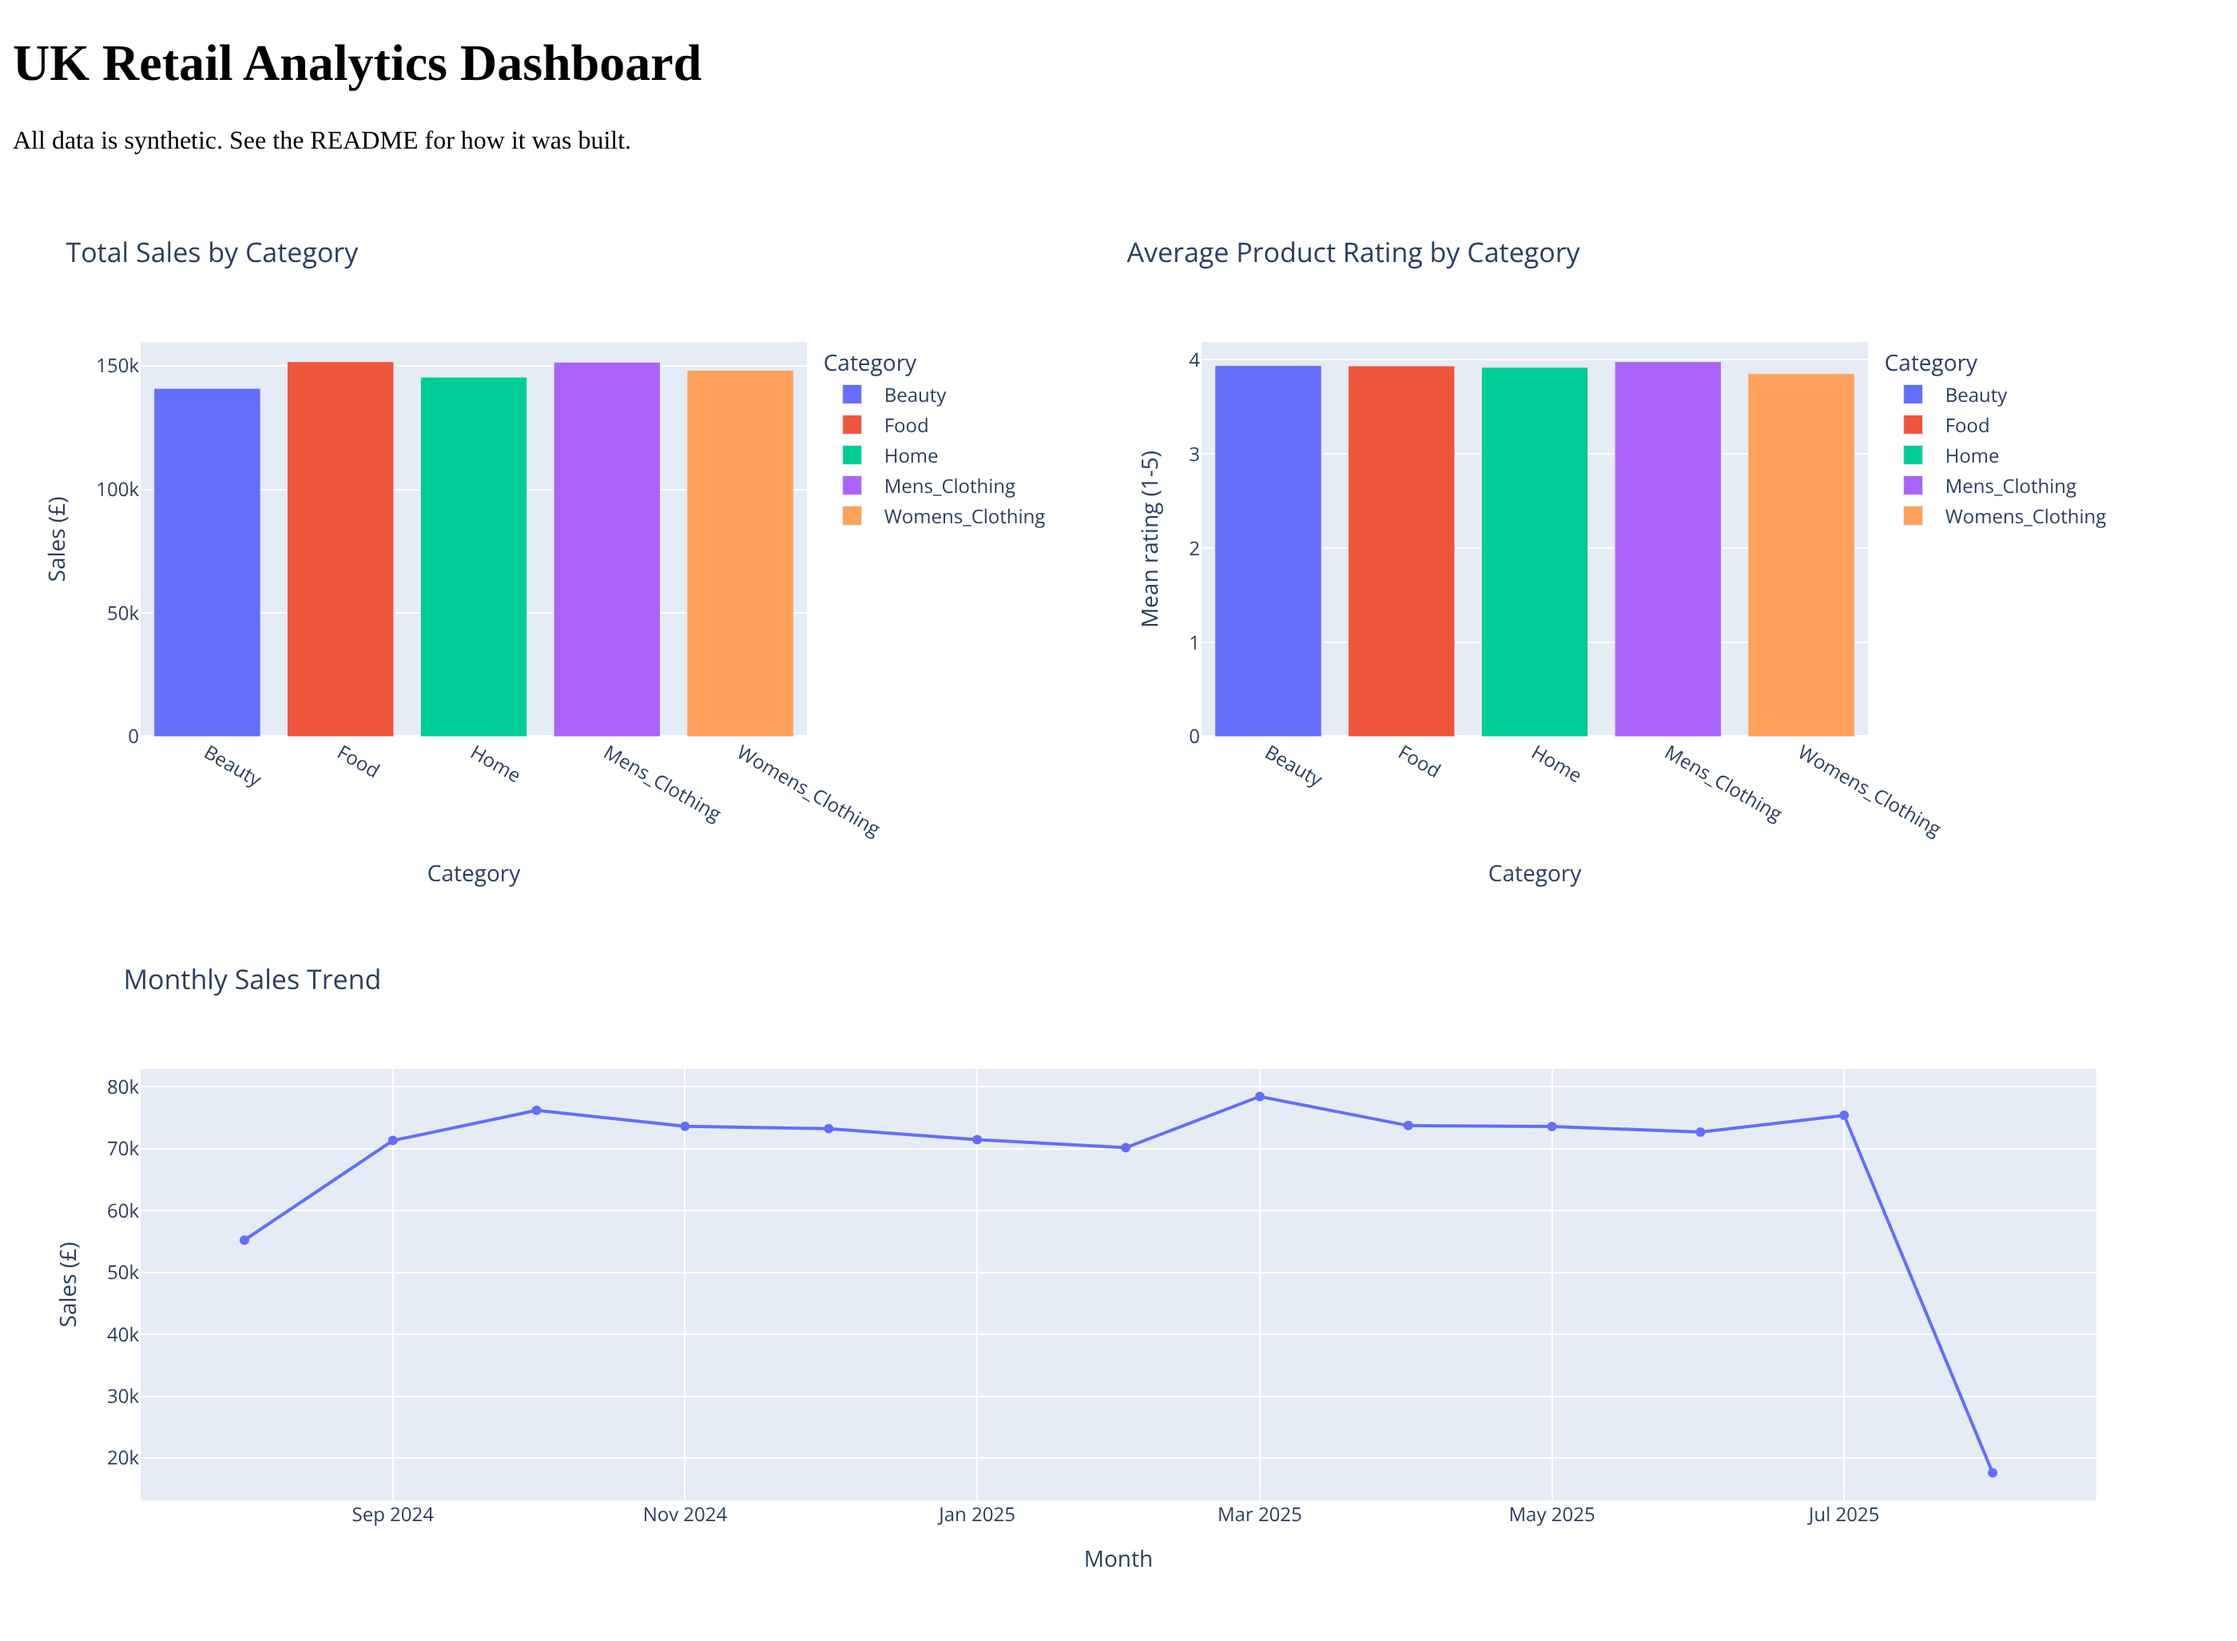
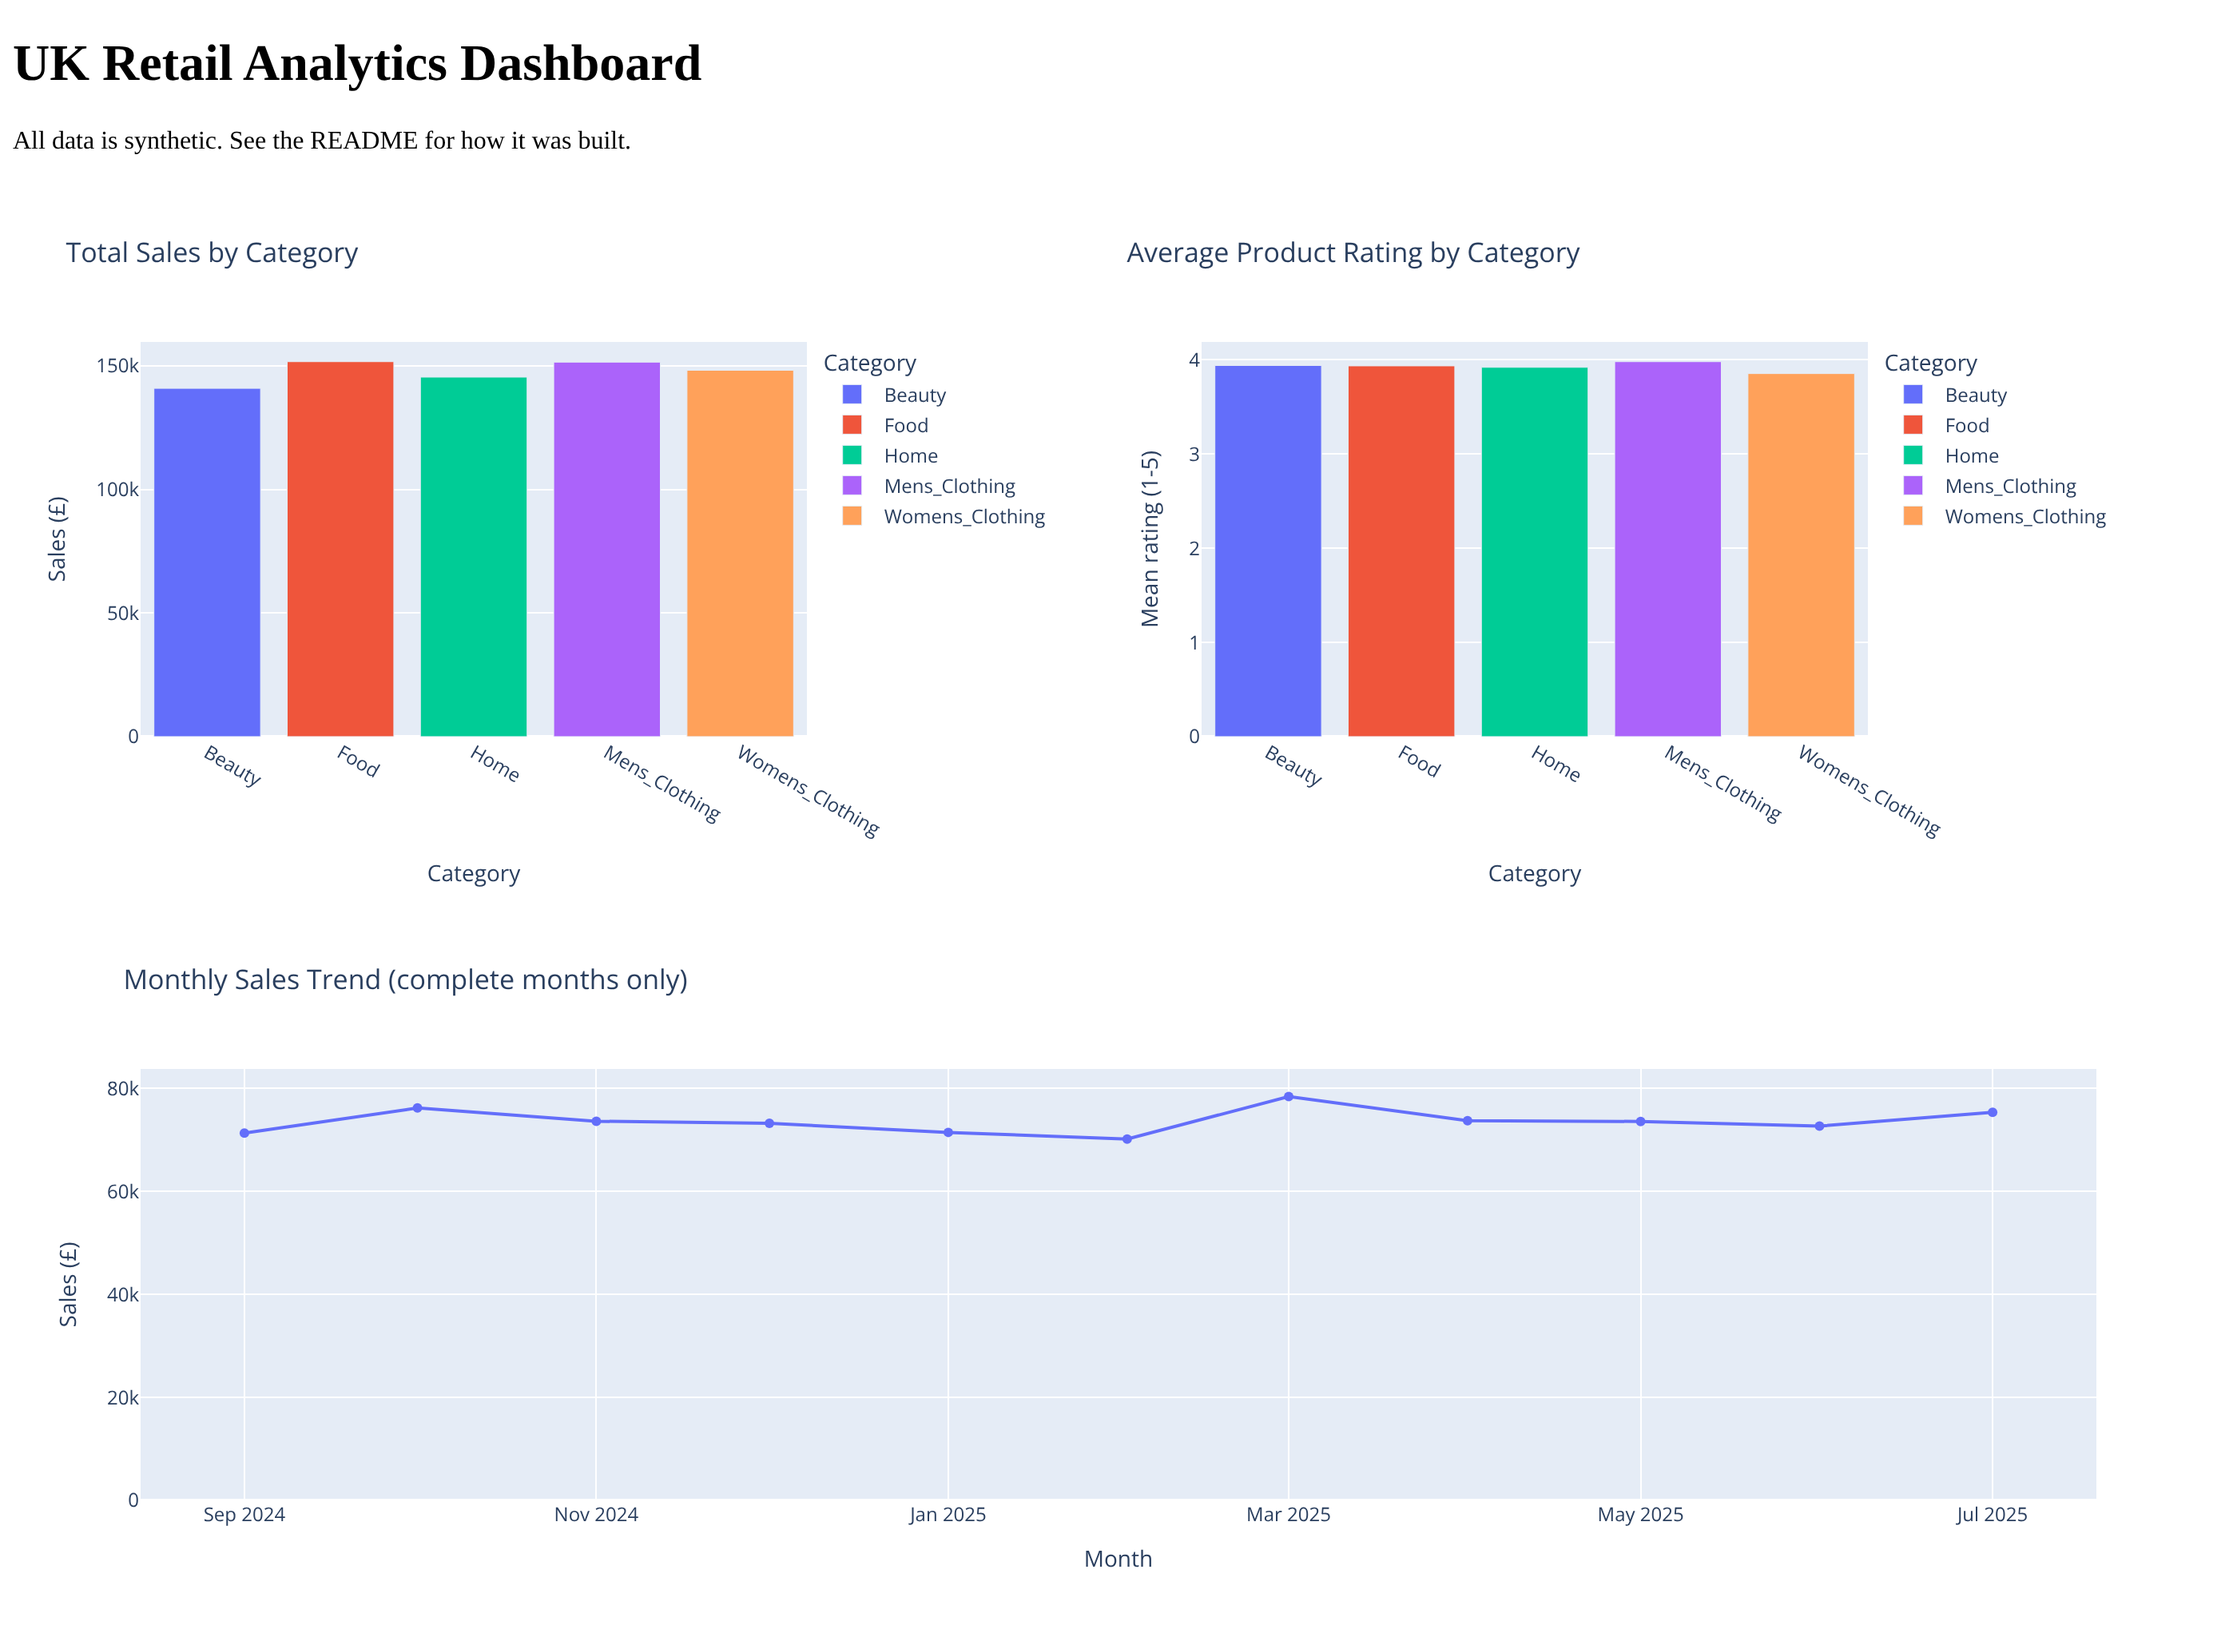
Drop partial first and last months from the monthly sales trend (#2)
Claude-Session: https://claude.ai/code/session_01QW73Zd6SxxuxNXYtePLDpX

diff --git a/dashboard/app.py b/dashboard/app.py
@@ -51,15 +51,21 @@ monthly_sales = transactions.groupby("month")["order_total"].sum().reset_index()
 
 
 def handle_partial_months(monthly_sales, transactions):
-    """Stop partly covered months from looking like real sales drops.
+    """Keep only the months the transaction data covers from start to end.
 
     The transactions run from 9 Aug 2024 to 7 Aug 2025, so the first and
-    last months hold only a few days of sales each and appear as false dips
-    in the monthly trend. Returns the table to plot.
+    last months hold only a few days of sales each and would appear as false
+    dips in the monthly trend. Monthly totals are only comparable for whole
+    months, so partial months are dropped rather than plotted.
     """
-    # TODO(Sohail): choose and implement how to treat the partial first and
-    # last months (see the pull request description for the options).
-    return monthly_sales
+    first_day = transactions["tx_datetime"].min().normalize()
+    last_day = transactions["tx_datetime"].max().normalize()
+
+    months = pd.PeriodIndex(monthly_sales["month"], freq="M")
+    starts_in_range = months.start_time >= first_day
+    ends_in_range = months.end_time.normalize() <= last_day
+
+    return monthly_sales[starts_in_range & ends_in_range].reset_index(drop=True)
 
 
 monthly_sales = handle_partial_months(monthly_sales, transactions)
@@ -68,9 +74,11 @@ fig_monthly = px.line(
     x="month",
     y="order_total",
     markers=True,
-    title="Monthly Sales Trend",
+    title="Monthly Sales Trend (complete months only)",
     labels={"order_total": "Sales (£)", "month": "Month"},
 )
+# Start the axis at zero so month-to-month noise is shown in proportion.
+fig_monthly.update_yaxes(rangemode="tozero")
 
 # Dash app
 app = Dash(__name__)

diff --git a/README.md b/README.md
@@ -52,7 +52,7 @@ Every product, transaction and store key resolves to a row in its parent table. 
 
 - total sales by product category
 - average review rating by category
-- monthly sales trend
+- monthly sales trend for complete months only (September 2024 to July 2025); the partial first and last months, which hold only a few days of data, are left out so they do not appear as false drops
 
 ### Run it
 
